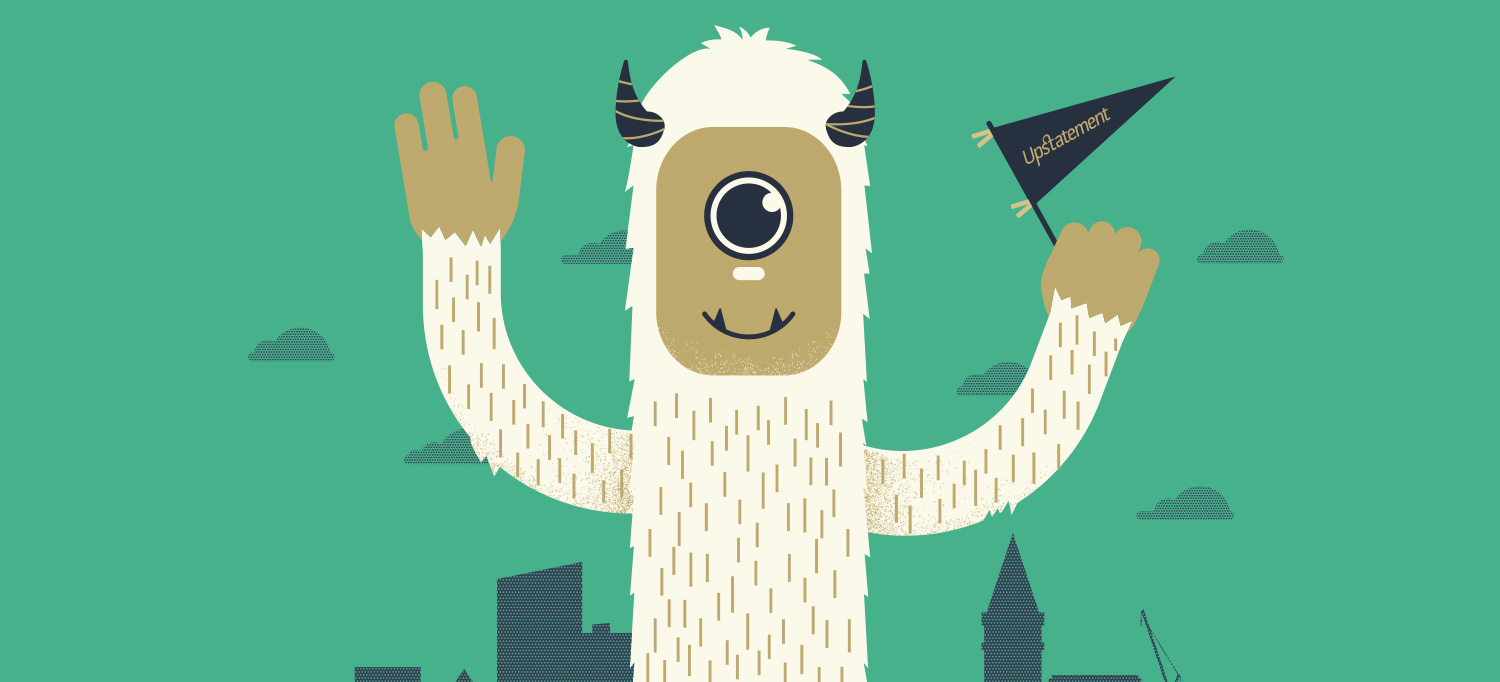
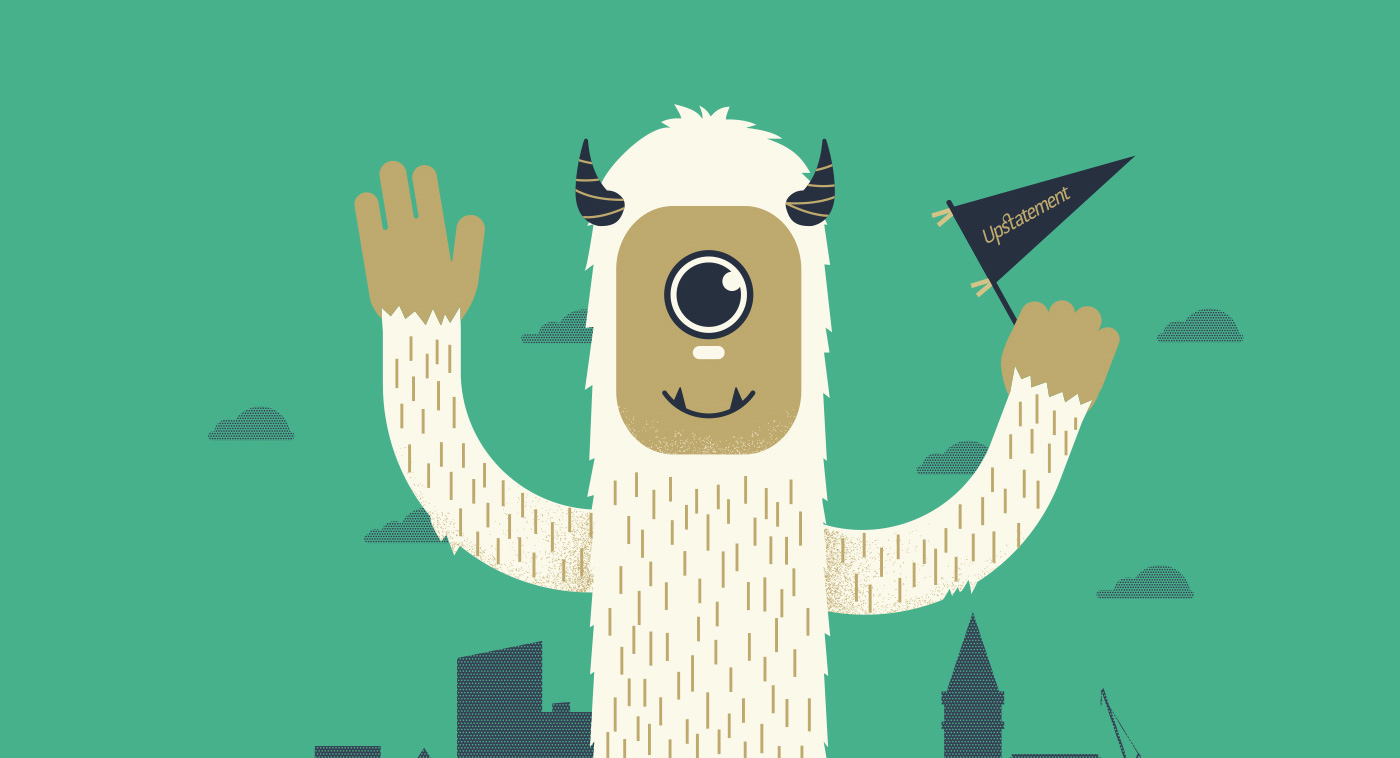
Building out inside pages, adding new images, tweaking img and type styles

Changed region(s): [[0.215, 0.0308, 0.8907, 1.0], [0.7679, 0.7082, 0.86, 0.8006], [0.1536, 0.4619, 0.215, 0.585]]

diff --git a/_css/screen.css b/_css/screen.css
@@ -382,7 +382,7 @@ h4 {
 
 .overline {
   margin: 0 auto;
-  max-width: 620px;
+  max-width: 650px;
   text-transform: uppercase;
   letter-spacing: 3px;
   font: 400 10px/170% "Montserrat", sans-serif;
@@ -401,7 +401,7 @@ p {
 }
 
 .site-list {
-  max-width: 620px;
+  max-width: 650px;
   margin: 0 auto;
   font: 400 18px/170% "Montserrat", sans-serif;
 }
@@ -659,7 +659,7 @@ header {
   *zoom: 1;
   position: relative;
   height: 0;
-  padding-bottom: 70.5%;
+  padding-bottom: 74.5%;
   overflow: hidden;
   z-index: -1;
 }
@@ -670,17 +670,17 @@ header {
 }
 @media (min-width: 400px) {
   .feat-project-mod {
-    padding-bottom: 60.5%;
+    padding-bottom: 67.5%;
   }
 }
 @media (min-width: 600px) {
   .feat-project-mod {
-    padding-bottom: 50.5%;
+    padding-bottom: 60.5%;
   }
 }
 @media (min-width: 1000px) {
   .feat-project-mod {
-    padding-bottom: 43.5%;
+    padding-bottom: 56.5%;
   }
 }
 .feat-project-mod img {
@@ -894,7 +894,7 @@ header {
   margin-bottom: 30px;
   color: #333332;
   font: 400 17px/180% "schoolbook-web", Georgia, Times, Times New Roman, serif;
-  max-width: 620px;
+  max-width: 650px;
 }
 @media (min-width: 500px) {
   .project-page-content p {
@@ -911,12 +911,30 @@ header {
   margin: 0 auto;
   margin-bottom: 15px;
   color: #333332;
-  max-width: 620px;
+  max-width: 650px;
   font: 700 26px/140% "Montserrat", sans-serif;
 }
 
+.img-set {
+  margin-left: -50px;
+  *zoom: 1;
+}
+.img-set:after {
+  content: "";
+  display: table;
+  clear: both;
+}
+.img-set .media-block {
+  float: left;
+  padding-left: 50px;
+  width: 50%;
+}
+.img-set .media-block:nth-child(2n+3) {
+  clear: left;
+}
+
 .img-sm {
-  max-width: 620px;
+  max-width: 650px;
   display: block;
   margin: 0 auto;
   width: 100%;

diff --git a/_src/screen.scss b/_src/screen.scss
@@ -313,20 +313,20 @@ header {
 	@include pie-clearfix;
 	position: relative;
 	height: 0;
-	padding-bottom: 70.5%;
+	padding-bottom: 74.5%;
 	overflow: hidden;
 	z-index: -1;
 
 	@media (min-width: 400px) {
-		padding-bottom: 60.5%;
+		padding-bottom: 67.5%;
 	}
 
 	@media (min-width: 600px) {
-		padding-bottom: 50.5%;
+		padding-bottom: 60.5%;
 	}
 
 	@media (min-width: 1000px) {
-		padding-bottom: 43.5%;
+		padding-bottom: 56.5%;
 	}
 
 	img {
@@ -512,6 +512,10 @@ header {
 		max-width: $standard-width;
 		font: 700 26px/140% $sans-title;
 	}
+}
+
+.img-set {
+	@include media-grid(2, 50px);
 }
 
 .img-sm {

diff --git a/_src/project/_variables.scss b/_src/project/_variables.scss
@@ -35,4 +35,4 @@ $serif: "schoolbook-web",Georgia,Times,Times New Roman,serif;
 $mono:"Courier New",Courier,mono;
 $sans-title:"Montserrat", sans-serif;
 
-$standard-width: 620px;
+$standard-width: 650px;

diff --git a/lululemon/index.php b/lululemon/index.php
@@ -6,7 +6,7 @@ include($_SERVER["DOCUMENT_ROOT"]."/_includes/page-start.php"); ?>
 
 		<div id="main" role="main">
 			<div class="feat-project-mod">
-				<img class="feat-project-img" src="/_img/lululemon-wall-art-jp-boneyard-jpb-5.jpg" alt="Lululemon Lead" />
+				<img class="feat-project-img" src="/_img/lululemon-wall-art-jp-boneyard-jpb-topper.jpg" alt="Lululemon Lead" />
 			</div> <!-- /feat-project-mod -->
 
 			<div class="project-page-mod">
@@ -16,23 +16,18 @@ include($_SERVER["DOCUMENT_ROOT"]."/_includes/page-start.php"); ?>
 					<h3>LuluLemon Wall Installation</h3>
 					<p>I was stoked when Lululemon reached out about creating a unique piece of art for a new store in Boston Mass. The slogan came from lulu's mission statement and the overall aesthetic was inspired by Newbury Street and the new space itself. We worked with Seaport Graphics in Boston to fabricate the final piece. The crew at Seaport did an amazing job scouting out the wood (seriously, this was once an old 9'x9' barn door!), rope and other supplies we had requested to produce the installation. It's always a joy working with three-dimensional type. Nothing beats the physicality involved with setting 7" pieces of machined type by hand.</p>
 					
-					<img class="img-full img-first" src="/_img/lululemon-wall-art-jp-boneyard-jpb-1.jpg" alt="lululemon wall art 1" />
+					<img class="img-full img-first" src="/_img/lululemon-installation-jp-boneyard.jpg" alt="lululemon wall art 1" />
 					
-					<img class="img-med" src="/_img/lululemon-wall-art-jp-boneyard-jpb-3.jpg" alt="lululemon wall art 3" />
-
-					<img class="img-med" src="/_img/lululemon-wall-art-jp-boneyard-jpb-4.jpg" alt="lululemon wall art 4" />
-
-					<img class="img-med" src="/_img/lululemon-wall-art-jp-boneyard-jpb-5.jpg" alt="lululemon wall art 5" />
+					<img class="img-full section-end" src="/_img/lululemon-sign-detail-2-jp-boneyard.jpg" alt="lululemon wall art 3" />
 
 
 					<h3>Commemorative Poster</h3>
 					<p>A cool bonus to this project was the opportunity to make a commeorative poster to celebrate the grand opening of the new store. I screen printed a short run of posters as a take away for those present at the reception. It was a lot of fun to first imagine this installation in three dimensions and then simplify it back to something that more resembles the original renderings.</p>	
 
-					<img class="img-full" src="/_img/lululemon-poster-jp-boneyard-jpb-1.jpg" alt="lululemon wall art 1" />
+					<img class="img-full" src="/_img/lululemon-poster-full-jp-boneyard.jpg" alt="lululemon wall art 1" />
 
-					<img class="img-med" src="/_img/lululemon-poster-jp-boneyard-jpb-2.jpg" alt="lululemon wall art 2" />
+					<img class="img-full" src="/_img/lululemon-poster-detail-set-jp-boneyard.jpg" alt="lululemon wall art 2" />
 					
-					<img class="img-med" src="/_img/lululemon-poster-jp-boneyard-jpb-4.jpg" alt="lululemon wall art 4" />
 
 				</div> <!-- /project-page-content -->					
 

diff --git a/sparkcamp/index.php b/sparkcamp/index.php
@@ -1,0 +1,49 @@
+<?php 
+$title = "Spark Camp";
+include($_SERVER["DOCUMENT_ROOT"]."/_includes/page-start.php"); ?>
+
+<?php include($_SERVER["DOCUMENT_ROOT"]."/_includes/header.php"); ?>
+
+		<div id="main" role="main">
+			<div class="feat-project-mod">
+				<img class="feat-project-img" src="/_img/spark-camp-topper.jpg" alt="Lululemon Lead" />
+			</div> <!-- /feat-project-mod -->
+
+			<div class="project-page-mod">
+				<div class="project-page-content">
+
+					<div class="overline">Branding & Code</div>
+					<h3>Spark Camp</h3>
+
+					<p>Matt Thompson of NPR reached out to Upstatment about developing a simple web site and branding system that could be used for Spark Camp: a thing where people talk and stuff. Even though the project had a limited timeline I was able to jump in, establish a the brand elements and build out a site around this new visual language and Matt's content needs. We were fortunate to work with Matt and his appreciation of all the extra details (like building out a set of icons at our suggestion) ultimately led to NPR hiring Upstatement for several other larger projects.</p>	
+					
+
+					<h3>Branding</h3>
+
+					<p>Matt Thompson of NPR reached out to Upstatment about developing a simple web site and branding system that could be used for Spark Camp: a thing where people talk and stuff. Even though the project had a limited timeline I was able to jump in, establish a the brand elements and build out a site around this new visual language and Matt's content needs. We were fortunate to work with Matt and his appreciation of all the extra details (like building out a set of icons at our suggestion) ultimately led to NPR hiring Upstatement for several other larger projects.</p>	
+
+
+					<h3>Responsive Web Site</h3>
+
+					<p>Matt Thompson of NPR reached out to Upstatment about developing a simple web site and branding system that could be used for Spark Camp: a thing where people talk and stuff. Even though the project had a limited timeline I was able to jump in, establish a the brand elements and build out a site around this new visual language and Matt's content needs. We were fortunate to work with Matt and his appreciation of all the extra details (like building out a set of icons at our suggestion) ultimately led to NPR hiring Upstatement for several other larger projects.</p>
+					
+
+				</div> <!-- /project-page-content -->					
+
+			</div> <!-- /project-page-mod -->
+
+			<div class="more-work-mod">
+				<img src="/_img/more-work.png" />
+			</div> <!-- /more-work-mod -->
+
+			<div class="inside-projects">
+				<?php include($_SERVER["DOCUMENT_ROOT"]."/_includes/project-tiles.php"); ?>
+			</div>	<!-- /inside-projects -->
+
+		<!-- footer -->
+		<?php include($_SERVER["DOCUMENT_ROOT"]."/_includes/footer.php"); ?>
+
+
+	<!-- Page End -->
+	<?php include($_SERVER["DOCUMENT_ROOT"]."/_includes/page-end.php"); ?>
+

diff --git a/miscprojects/index.php b/miscprojects/index.php
@@ -6,24 +6,24 @@ include($_SERVER["DOCUMENT_ROOT"]."/_includes/page-start.php"); ?>
 
 		<div id="main" role="main">
 			<div class="feat-project-mod">
-				<img class="feat-project-img" src="/_img/diy-shows-2-photo-by-april-eve-images.jpg" alt="Lululemon Lead" />
+				<img class="feat-project-img" src="/_img/wordcamp-topper.jpg" alt="Lululemon Lead" />
 			</div> <!-- /feat-project-mod -->
 
 			<div class="project-page-mod">
 				<div class="project-page-content">
 
-					<div class="overline">Design & a lot More!</div>
+					<div class="overline">Grab Bag of Fun</div>
 					<h3>Been Everywhere Project</h3>
 					<p>Designer Adrian Walsh curated a collaborative design project called "The Everywhere Project" that pays tribute to the classic folk song “I’ve Been Everywhere”. My birthplace of Springfield Mass is mentioned in the song and I was fortunate enough to represent the city and hang with pretty righteous group of contributors. Springfield is lovingly referred to as "The City of Firsts". I picked one of my favorites from that long list and illustrated it for my luggage label (sorry basketball, I didn't love you as much until a little later)—the Indian Motorcycle! </p>
 					
-					<img class="img-sm" src="/_img/JP-Boneyard-Springfield-Mass-Been-Everywhere-Project.jpg" alt="Been Everywhere Project" />
+					<img class="img-sm section-end" src="/_img/JP-Boneyard-Springfield-Mass-Been-Everywhere-Project.jpg" alt="Been Everywhere Project" />
 					
 
-					<h3>Spark Camp</h3>
+					<h3>Bikes Fight Cancer</h3>
 					<p>Matt Thompson of NPR reached out to Upstatment about developing a simple web site and branding system that could be used for Spark Camp: a thing where people talk and stuff. Even though the project had a limited timeline I was able to jump in, establish a the brand elements and build out a site around this new visual language and Matt's content needs. We were fortunate to work with Matt and his appreciation of all the extra details (like building out a set of icons at our suggestion) ultimately led to NPR hiring Upstatement for several other larger projects.</p>	
 
 					<img class="img-sm" src="/_img/spark-camp-logo-jp-boneyard.jpg" alt="Spark Camp Logo" />
-					<img class="img-sm" src="/_img/spark-camp-icons-jp-boneyard.jpg" alt="Spark Camp Icons" />
+					<img class="img-sm section-end" src="/_img/spark-camp-icons-jp-boneyard.jpg" alt="Spark Camp Icons" />
 
 	
 					<h3>Drinks at Upstatement Microsite</h3>

diff --git a/diyshows/index.php b/diyshows/index.php
@@ -6,7 +6,7 @@ include($_SERVER["DOCUMENT_ROOT"]."/_includes/page-start.php"); ?>
 
 		<div id="main" role="main">
 			<div class="feat-project-mod">
-				<img class="feat-project-img" src="/_img/diy-shows-2-photo-by-april-eve-images.jpg" alt="Lululemon Lead" />
+				<img class="feat-project-img" src="/_img/diy-topper.jpg" alt="Lululemon Lead" />
 			</div> <!-- /feat-project-mod -->
 
 			<div class="project-page-mod">
@@ -18,7 +18,7 @@ include($_SERVER["DOCUMENT_ROOT"]."/_includes/page-start.php"); ?>
 
 					<p>Since 1999 I have helped organize and promote over 250 all ages DIY shows in Massachusetts and around the country, with local, regional, national and international artists. Facilitating these community minded art and music events is something that I always felt passionately about even back when I started helping out with and setting up my own shows in high school. I'm thankful for growing up in a small mill town without a lot to do because this challenged friends and myself to make our own fun and to do something positive in our community. This is where I got my start in designing and printing show posters and album art for bands.</p>
 					
-					<img class="img-full" src="/_img/diamond-junction-northampton-wools.jpg" alt="lululemon wall art 2" />
+					<img class="img-full" src="/_img/diy-shows-northampton-wools.jpg" alt="lululemon wall art 2" />
 
 
 
@@ -40,7 +40,7 @@ include($_SERVER["DOCUMENT_ROOT"]."/_includes/page-start.php"); ?>
 
 					<p>After The Shed ran its course (time to give mom and the neighbors a break, I was gearing up to go back to college) shows happened between Boston and Palmer. Mass Art was our favorite all ages spot in Boston to host shows at and Diamond Junction Bowling Lanes in Palmer became a pretty righteous partnership as well. Somewhere along the way The National Poster Retorospecticus caught some momentum and that's where I've been putting most of my show production efforts these day.</p>
 
-					<img class="img-full img-ftr-top" src="/_img/diamond-junction-northampton-wools.jpg" alt="lululemon wall art 2" />
+					<img class="img-full img-ftr-top" src="/_img/diy-shows-magik-markers.jpg" alt="lululemon wall art 2" />
 
 
 				</div> <!-- /project-page-content -->					

diff --git a/letterproject/index.php b/letterproject/index.php
@@ -6,7 +6,7 @@ include($_SERVER["DOCUMENT_ROOT"]."/_includes/page-start.php"); ?>
 
 		<div id="main" role="main">
 			<div class="feat-project-mod">
-				<img class="feat-project-img" src="/_img/letters-desk-jp-boneyard-1.jpg" />
+				<img class="feat-project-img" src="/_img/letter-project-topper.jpg" />
 			</div> <!-- /feat-project-mod -->
 
 			<div class="project-page-mod">
@@ -66,14 +66,14 @@ include($_SERVER["DOCUMENT_ROOT"]."/_includes/page-start.php"); ?>
 
 					<img class="img-sm" src="/_img/letter_y_jp_boneyard.jpg" />
 
-					<img class="img-sm" src="/_img/letter_z_jp_boneyard.jpg" />
+					<img class="img-sm section-end" src="/_img/letter_z_jp_boneyard.jpg" />
 
 					<h3>The Process</h3>
 					<p>After I'd done a few weeks of research and built my new printing setup type was redrawn from reference, from scratch or left as is because it was so unique, and then screen printed. Several characters were inspired by my research and I came out with something completely new. From start to finish this project took 200+ hours to complete and I found that once carved out the time to spend experimenting I couldn't put the project down.</p>	
 
 					<img class="img-full" src="/_img/letters_project_process_jp_boneyard-2.jpg" />
-					
-					<img class="img-full img-ftr-top" src="/_img/letters_framed_jp_boneyard.jpg" />
+
+					<img class="img-full img-ftr-top" src="/_img/letter-project-jp-boneyard-frames.jpg" />
 
 				</div> <!-- /project-page-content -->	
 			</div> <!-- /project-page-mod -->

diff --git a/_includes/project-tiles.php b/_includes/project-tiles.php
@@ -65,7 +65,7 @@
 
 		<!-- grid 1-3 --> 
 		<div class="grid-1 grid-item media-block">
-			<a href="/bikesfightcancer"> <img class="bottom" src="/_img/tiles/spark-camp.jpg" alt="Spark Camp"/>
+			<a href="/sparkcamp"> <img class="bottom" src="/_img/tiles/spark-camp.jpg" alt="Spark Camp"/>
 			<div class="tile-detail-mod">
 				<div class="tile-details">
 					<div class="overline">Branding & Code</div>

diff --git a/contact/index.php b/contact/index.php
@@ -5,7 +5,7 @@
     <?php include($_SERVER["DOCUMENT_ROOT"]."/_includes/header.php"); ?>
 
 	<div class="feat-project-mod">
-		<img class="feat-project-img" src="/_img/jp-boneyard-id-jpb-2.jpg" />
+		<img class="feat-project-img" src="/_img/jp-boneyard-logo-topper.jpg" />
 	</div> <!-- /feat-project-mod -->
 
 	<div class="project-page-mod">

diff --git a/about/index.php b/about/index.php
@@ -5,7 +5,7 @@
     <?php include($_SERVER["DOCUMENT_ROOT"]."/_includes/header.php"); ?>
 
 	<div class="feat-project-mod">
-		<img class="feat-project-img" src="/_img/jp-boneyard.jpg" />
+		<img class="feat-project-img" src="/_img/jp-boneyard-john-boilard-2.jpg" />
 	</div> <!-- /feat-project-mod -->
 
 	<div class="project-page-mod">
